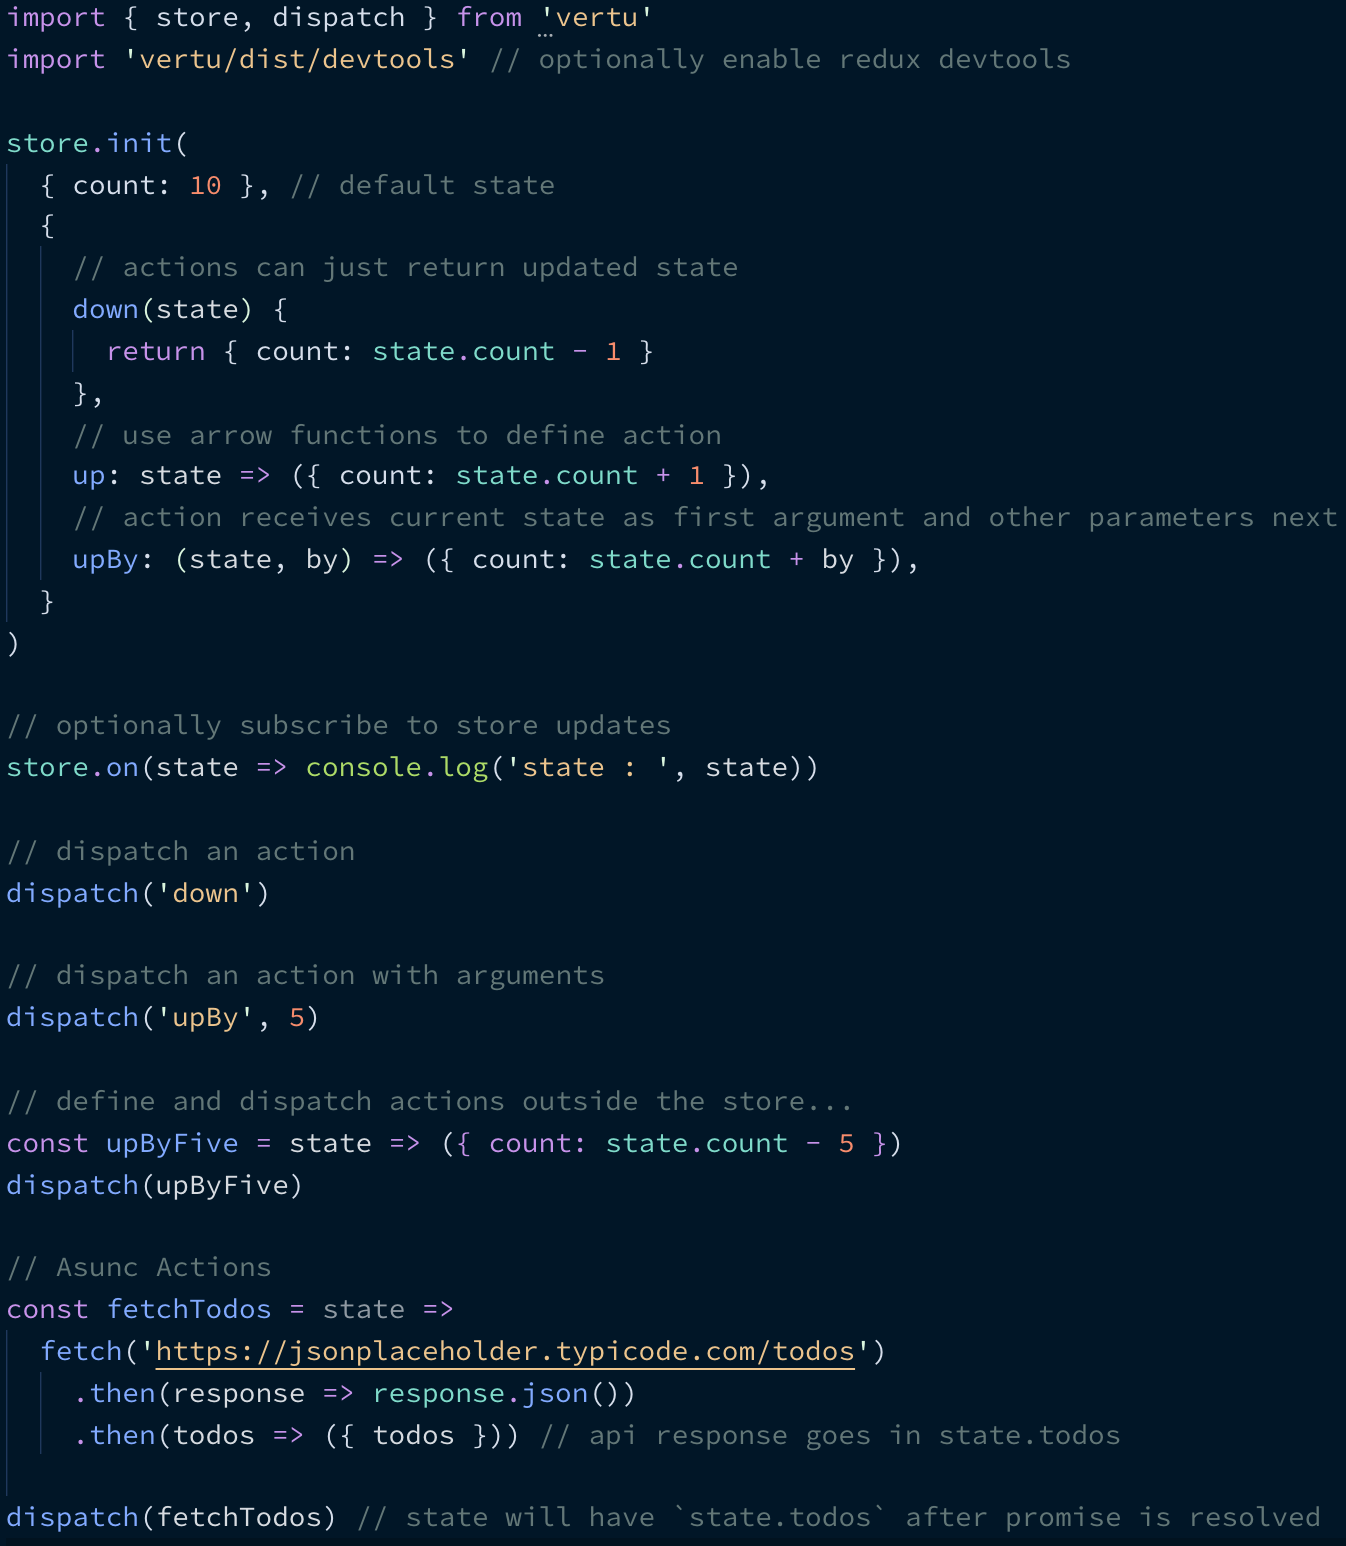
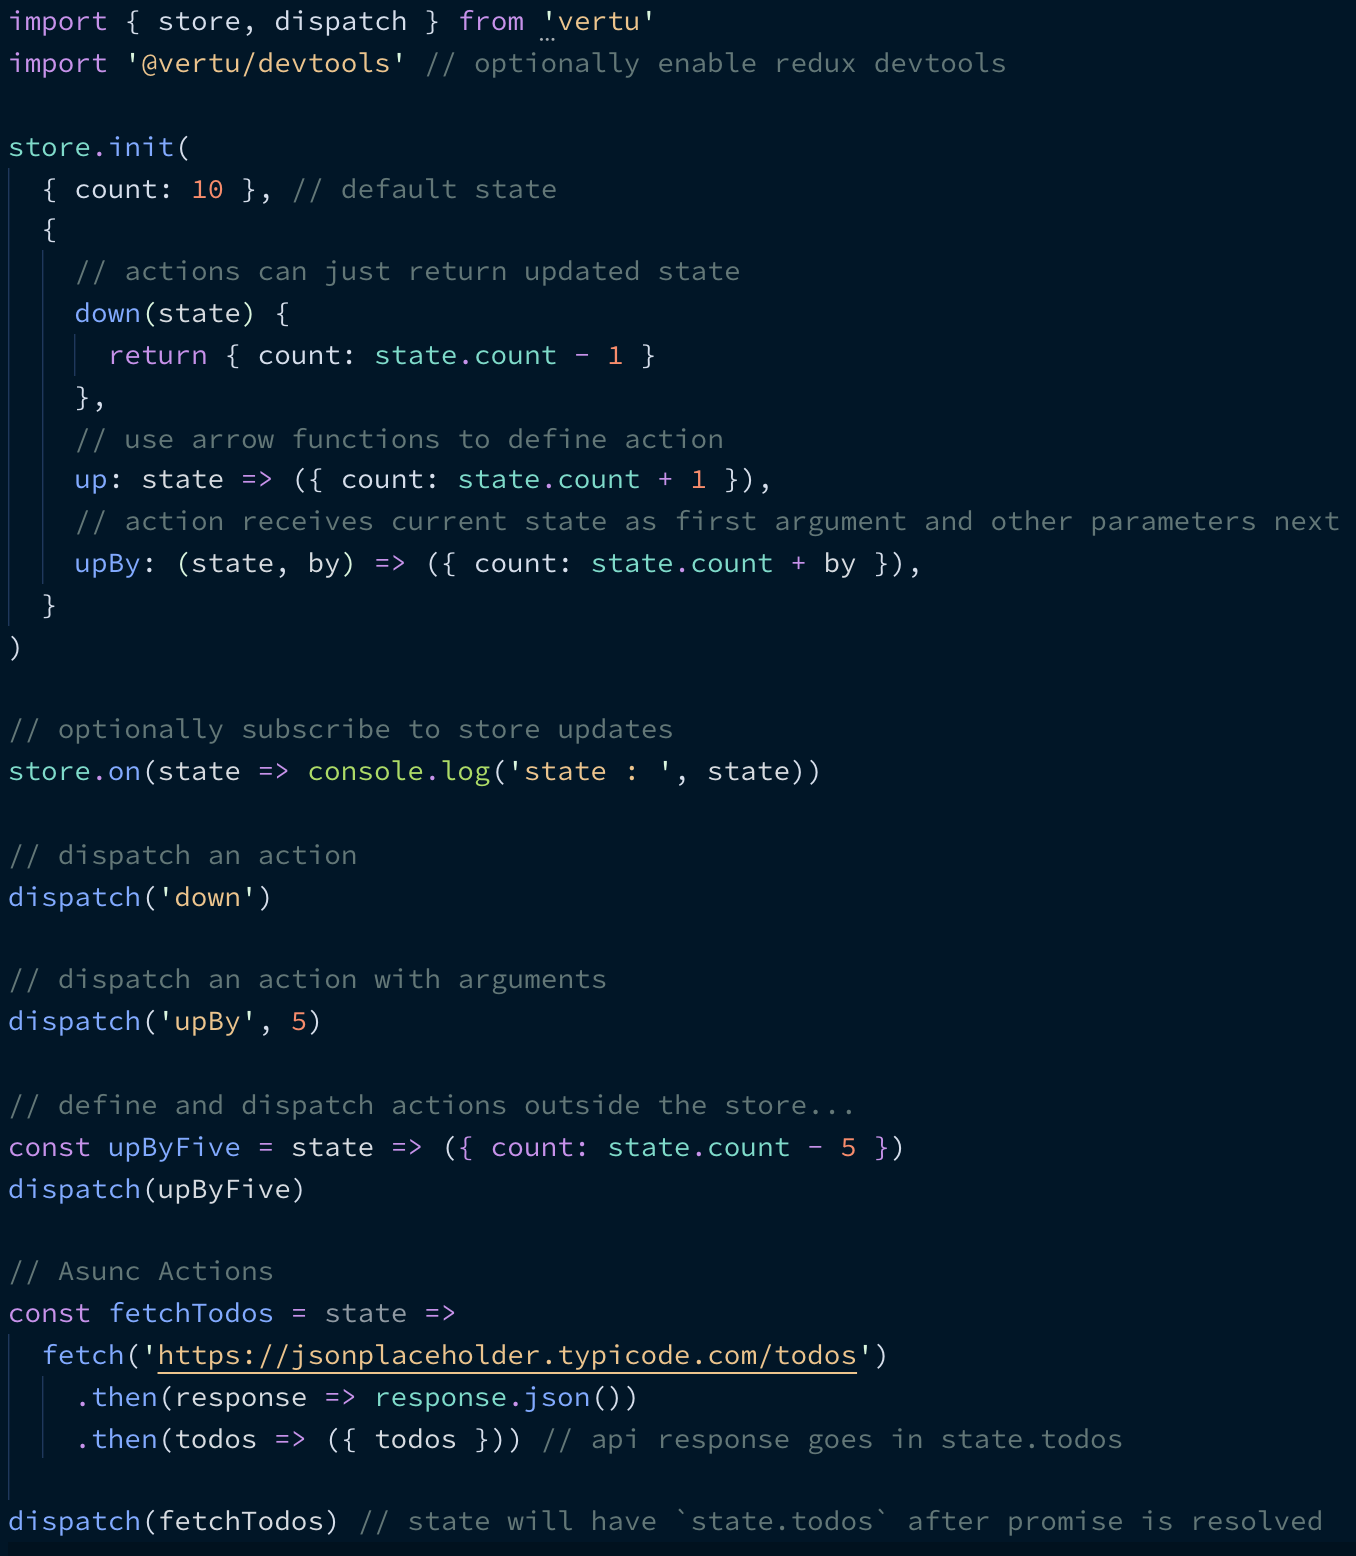
internal refactor (#3)

diff --git a/examples/kitchen-sync/public/index.html b/examples/kitchen-sync/public/index.html
@@ -4,10 +4,10 @@
 		<meta charset="UTF-8" />
 		<meta name="viewport" content="width=device-width, initial-scale=1.0" />
 		<meta http-equiv="X-UA-Compatible" content="ie=edge" />
-		<title>example example</title>
+		<title>kitchen-sync example</title>
 	</head>
 	<body>
 		<div id="root"></div>
-		<script src="dist/example.esm.js" type="module"></script>
+		<script src="dist/kitchen-sync.esm.js" type="module"></script>
 	</body>
 </html>

diff --git a/examples/kitchen-sync/public/index.js b/examples/kitchen-sync/public/index.js
@@ -1,5 +1,5 @@
 import { store, dispatch } from 'vertu'
-import 'vertu/dist/devtools' // optionally enable redux devtools
+import '@vertu/devtools' // optionally enable redux devtools
 
 store.init(
   { count: 10 }, // default state

diff --git a/packages/vertu/README.md b/packages/vertu/README.md
@@ -59,7 +59,7 @@ Initialize state and actions and use dispatch to fire the actions.
 
 ```js
 import { store, dispatch } from 'vertu'
-import 'vertu/dist/devtools' // optionally enable redux devtools
+import '@vertu/devtools' // optionally enable redux devtools
 
 store.init(
   { count: 10 }, // default state
@@ -99,7 +99,7 @@ For extreme rare cases, you can use `update` function to update the state direct
 update('MANUAL', { count: 100 })
 ```
 
-> NB: Using `update` is generally discouraged. The export mainly serves `devtools`.
+> NB: Using `update` is generally discouraged. The export is intended for redux devtools.
 
 ## :muscle: Async actions
 
@@ -130,11 +130,11 @@ store.on((state, actionName) =>
 
 To use [redux-devtools-extension](https://github.com/zalmoxisus/redux-devtools-extension) with `vertu`, make sure you have the devtools extension installed.
 
-Your code also needs to import `vertu/dist/devtools` to enable devtools support for the project.
+Your code also needs to import `@vertu/devtools` to enable devtools support for the project.
 
 ```js
 import { store, dispatch, update } from 'vertu'
-import 'vertu/dist/devtools' // enable the devtools support
+import '@vertu/devtools' // enable the devtools support
 
 store.init() ...
 ```

diff --git a/packages/devtools/README.md b/packages/devtools/README.md
@@ -1,0 +1,9 @@
+# @vertu/devtools
+
+Redux Devtools Support for Vertu. Please refer [vertu docs](https://www.npmjs.com/package/vertu#trophy-devtools) for documentation.
+
+## :clinking_glasses: License
+
+**@vertu/devtools** is licensed under the [MIT License](http://opensource.org/licenses/MIT).<br>
+Documentation is licensed under [Creative Common License](http://creativecommons.org/licenses/by/4.0/).<br>
+Created with ♥ by [@osdevisnot](https://github.com/osdevisnot) and [all contributors](https://github.com/vertu/graphs/contributors).
